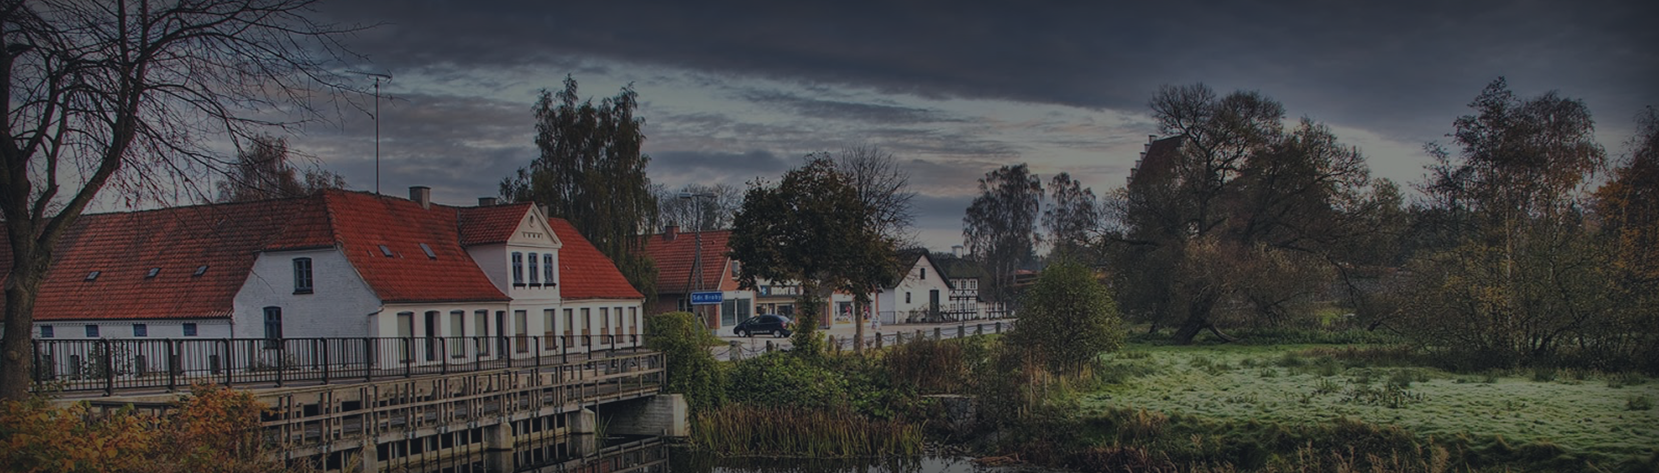
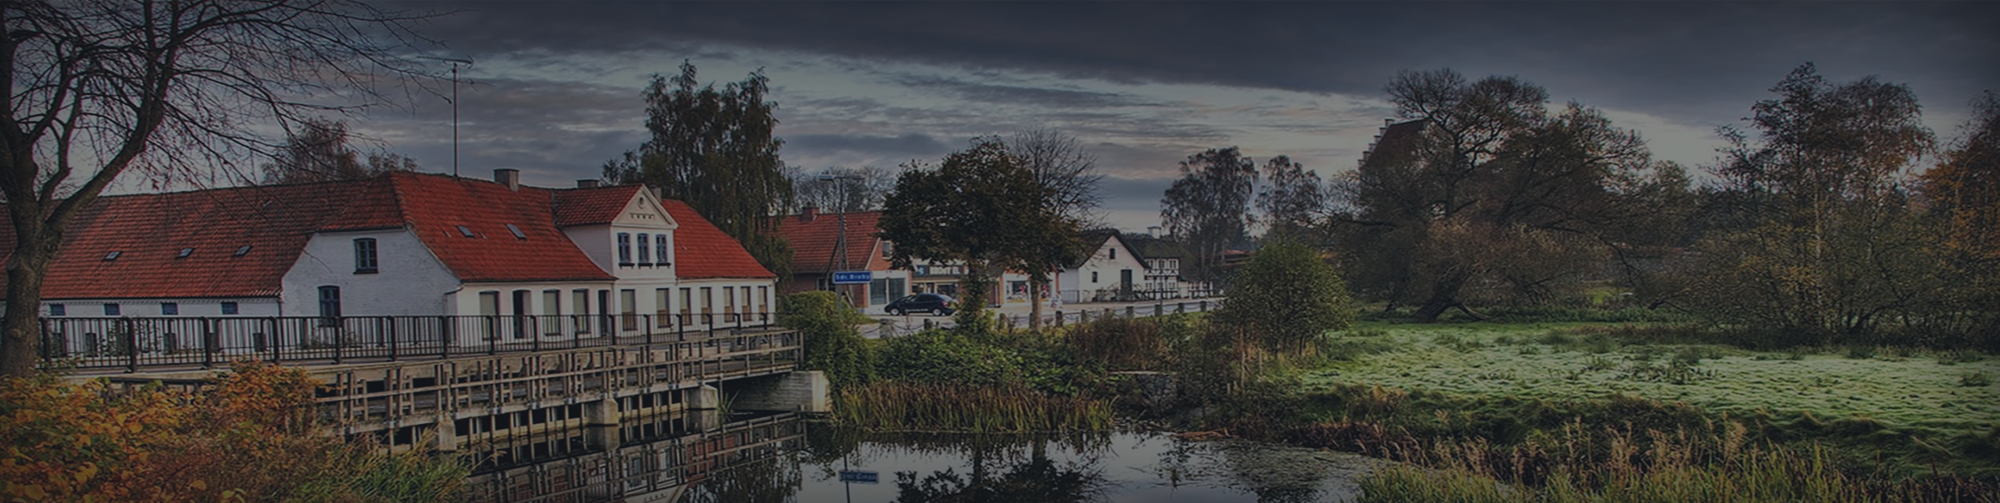
06.06.2018  Kinda Done

diff --git a/index.html b/index.html
@@ -9,7 +9,7 @@
 		<meta name="description" content="Web concept for Køge Kommune.">
 		<meta name="author" content="Razvan Barbulescu, Stefan Cristian">
 		<meta name="keywords" content="køge, kommune">
-        <META NAME="ROBOTS" CONTENT="NOINDEX, NOFOLLOW"></META>
+        <META NAME="ROBOTS" CONTENT="NOINDEX, NOFOLLOW">
 
 		<title>Web concept Køge Kommune</title>
 
@@ -239,22 +239,55 @@
                         <select name="help" data-conv-question="Chose a category from down below which you need help with">
                             <option value="cpr">CPR</option>
                             <option value="nemid">nemID</option>
-                            <option value="changeofaddress">nemID</option>
-                            <option value="su">nemID</option>
+                            <option value="changeofaddress">Change of Adress</option>
+                            <option value="su">SU</option>
                         </select>
                         <div data-conv-fork="help">
                             <div data-conv-case="cpr">
                                 <input type="text" data-conv-question=" You can find more informations about CPR on the first page of the webiste or you can check:" data-no-answer="true">
                             </div>
                             <div data-conv-case="nemid">
-                                <input type="text" data-conv-question="Mai sugi pula?" data-no-answer="true">
+                                <input type="text" data-conv-question="For the nemID you need to have CPR and a bank account, you can find more informations donw below" data-no-answer="true">
+                            </div>
+                            <div data-conv-case="changeofaddress">
+                                <input type="text" data-conv-question="If you want to change your address, you can do it trough our self-service. Log in and you will be redirected automatically" data-no-answer="true">
+                            </div>
+                            <div data-conv-case="su">
+                                <input type="text" data-conv-question=" {name}:0 !, you can check the community section to find more informations about SU and how you can get it" data-no-answer="true">
                             </div>
                             <select name="more" data-conv-question="You need more help?">
                                 <option value="yes">yes</option>
                                 <option value="no">no</option>
                             </select>
+                            <div data-conv-fork="more">
+                                <div data-conv-case="yes">
+                                    <select name="help" data-conv-question="Okey, chose another category that you need help with, {{name}:0 ">
+                                        <option value="cpr">CPR</option>
+                                        <option value="nemid">nemID</option>
+                                        <option value="changeofaddress">Change of Address</option>
+                                        <option value="su">SU</option>
+                                    </select>
+                                    <div data-conv-fork="help">
+                                        <div data-conv-case="cpr">
+                                            <input type="text" data-conv-question=" You can find more informations about CPR on the first page of the webiste or you can check:" data-no-answer="true">
+                                        </div>
+                                        <div data-conv-case="nemid">
+                                            <input type="text" data-conv-question="For the nemID you need to have CPR and a bank account, you can find more informations donw below" data-no-answer="true">
+                                        </div>
+                                        <div data-conv-case="changeofaddress">
+                                            <input type="text" data-conv-question="If you want to change your address, you can do it trough our self-service. Log in and you will be redirected automatically" data-no-answer="true">
+                                        </div>
+                                        <div data-conv-case="su">
+                                            <input type="text" data-conv-question=" {name}:0 !, you can check the community section to find more informations about SU and how you can get it" data-no-answer="true">
+                                        </div>
+                                    </div>
+                                </div>
+                                <input type="text" data-conv-question="I'm glad that I could help you,">data-no-answer="true">
+                                <input type="text" data-conv-question="Have a nice day,{name}:0 " data-no-answer="true">
+
+                            </div>
                         </div>
-                        <input type="text" data-conv-question="Have a nice day {name}" data-no-answer="true">
+                        <input type="text" data-conv-question="Have a nice day {name}:0" data-no-answer="true">
                     </form>
                 </div>
             </div>

diff --git a/assets/css/style.css b/assets/css/style.css
@@ -11,6 +11,7 @@
 @import url('https://fonts.googleapis.com/css?family=Roboto:300,400,500,600,700');
 @import url('jquery.convform.css');
 @import url('animate.css');
+@import url('responsive.css');
 
 html {
     -webkit-box-sizing: border-box;
@@ -165,7 +166,8 @@ header {
     z-index: -9999;
     grid-column: 1/4;
     grid-row: 3/4;
-
+    height: 70%;
+    width: 100%;
 }
 
 /* First-Section */
@@ -926,7 +928,7 @@ div.sign-in-container {
     margin-bottom: 2%;
 
 }
-.collapse, .collapse2, .collapse3, .collapse4 {
+.collapse, .collapse2, .collapse3, .collapse4, .collapse5 {
     cursor: pointer;
     color: #fefefe;
     padding: 10px;
@@ -941,7 +943,7 @@ div.sign-in-container {
 
 }
 
-.collapse, .collapse2, .collapse3, .collapse4 * {
+.collapse, .collapse2, .collapse3, .collapse4, .collapse5 * {
     -webkit-box-sizing: border-box;
     -moz-box-sizing: border-box;
     box-sizing: border-box;
@@ -972,9 +974,14 @@ div.sign-in-container {
     color:#fefefe;
     max-height:3000px;
     transition: all 0.2s,max-height 4.8s;
-
 }
-.first-plus:after, .second-plus:after, .third-plus:after, .fourth-plus:after{
+.collapse5.active{
+    z-index: 200;
+    color:#fefefe;
+    max-height:3000px;
+    transition: all 0.2s,max-height 4.8s;
+}
+.first-plus:after, .second-plus:after, .third-plus:after, .fourth-plus:after, .fifth-plus:after{
     text-align: center;
     border-radius:50%;
     font-size:38px;
@@ -1023,6 +1030,9 @@ div.sign-in-container {
 .fourth-plus:hover{
     opacity:1;
 }
+.fifth-plus:hover{
+    opacity: 1;
+}
 
 
 .collapse.active .first-plus::after{
@@ -1035,6 +1045,9 @@ div.sign-in-container {
     content:"-";
 }
 .collapse4.active .fourth-plus::after{
+    content: "-";
+}
+.collapse5.active .fifth-plus::after{
     content: "-";
 }
 .change-of-address{
@@ -1088,3 +1101,38 @@ div.sign-in-container {
     animation-delay: 1.6s;
 
 }
+
+.confirmation{
+    grid-column: 2/3;
+    grid-row: 1/2;
+    position:absolute;
+    color: #2d3951;
+    text-align: center;
+    padding-top: 7%;
+    padding-left: 9%;
+}
+.confirmation1{
+
+    color: #2d3951;
+
+
+
+}
+.conf{
+    grid-column: 2/3;
+    margin: 0 auto;
+    padding-top: 14%;
+
+}
+.wrapper1{
+    display: grid;
+    grid-template-columns: 1fr 20fr 1fr;
+    grid-template-rows: auto;
+    position: relative;
+}
+.background-color-1{
+    background-color: #2d3951;
+    grid-column: 1/4;
+
+}
+

diff --git a/self-service.html b/self-service.html
@@ -66,6 +66,10 @@
                         <a href="#" class="first-plus"></a>
                         <h2>PASSPORT</h2>
                         <div class="content">
+                            <p>Order your passport in time before your travels. Remember to check when it expires.<br>
+                                You can use our self service and book a time for a new passport by logging in with your NemID. It’s easy, fast and you can also pay online.<br>
+                                <button type="submit" href="#" class="signUpButton button2">Sign in</button>
+                            </p>
                         </div>
                     </div>
             </div>
@@ -74,6 +78,10 @@
                         <a href="#" class="second-plus"></a>
                         <h2>DRIVER’S LICENSE</h2>
                         <div class="content">
+                            Do you need a driver license, or have you lost it? We’ve collected everything you need to know here.<br>
+                            You can contact Borup citizenservice if you’ve lost your drivers license.<br>
+                            If you wish to get your drivers license, you can get help at our City Hall in Koege. <br>
+
                         </div>
                     </div>
                 </div>
@@ -98,15 +106,23 @@
                 </div>
                 <div class="wrap">
 
-                    <div class="collapse4 slide">
-                        <a href="#" class="fourth-plus"></a>
-                        <h2>PASSPORT</h2>
+                <div class="collapse4 slide">
+                    <a href="#" class="fourth-plus"></a>
+                    <h2>SU</h2>
+                    <div class="content">
+                    </div>
+                </div>
+            </div>
+                <div class="wrap">
+
+                    <div class="collapse5 slide">
+                        <a href="#" class="fifth-plus"></a>
+                        <h2>TAXES</h2>
                         <div class="content">
                         </div>
                     </div>
                 </div>
-
-</div>
+            </div>
         </div>
     </section>
 

diff --git a/self-service2.html b/self-service2.html
@@ -93,7 +93,7 @@
                                 <input type="text" name="practitioner" placeholder="PRACTITIONER">
                                 <h4>CONTACT</h4>
                                 <input type="text" name="contact" placeholder="CONTACT">
-                                <button type="submit" class="button">CONFIRM</button>
+                                <button type="submit" class="button"><a href="confirmation.html">CONFIRM</a> </button>
                             </form>
                         </div>
                     </div>
@@ -104,7 +104,16 @@
 
                     <div class="collapse4 slide">
                         <a href="#" class="fourth-plus"></a>
-                        <h2>PASSPORT</h2>
+                        <h2>SU</h2>
+                        <div class="content">
+                        </div>
+                    </div>
+                </div>
+                <div class="wrap">
+
+                    <div class="collapse5 slide">
+                        <a href="#" class="fifth-plus"></a>
+                        <h2>TAXES</h2>
                         <div class="content">
                         </div>
                     </div>

diff --git a/assets/js/slippry.js b/assets/js/slippry.js
@@ -56,7 +56,7 @@
     kenZoom: 120, // max zoom for kenburns (in %)
     slideMargin: 0, // spacing between slides (in %)
     transClass: 'transition', // [Class applied to [element] while a transition is taking place.]
-    speed: 800, // time the transition takes (ms)
+    speed: 1500, // time the transition takes (ms)
     easing: 'swing', // easing to use in the animation [(see... [jquery www])]
     continuous: true, // seamless first/ last transistion, only works with loop
     useCSS: true, // true, false -> fallback to js if no browser support

diff --git a/assets/js/custom.js b/assets/js/custom.js
@@ -77,6 +77,10 @@ $(".signUpButton").click(function() {
         e.preventDefault();
         $(".collapse4").toggleClass('active');
     });
+    $('.fifth-plus').on('click',function(e){ // this class is set on a button not a parent element...
+        e.preventDefault();
+        $(".collapse5").toggleClass('active');
+    });
 
 
     //Animations......

diff --git a/assets/css/responsive.css b/assets/css/responsive.css
@@ -1,0 +1,25 @@
+@media only screen and (max-width: 768px) {
+    /* For mobile phones: */
+
+
+
+
+
+
+
+
+
+
+
+
+
+
+
+
+
+
+
+
+
+
+}
